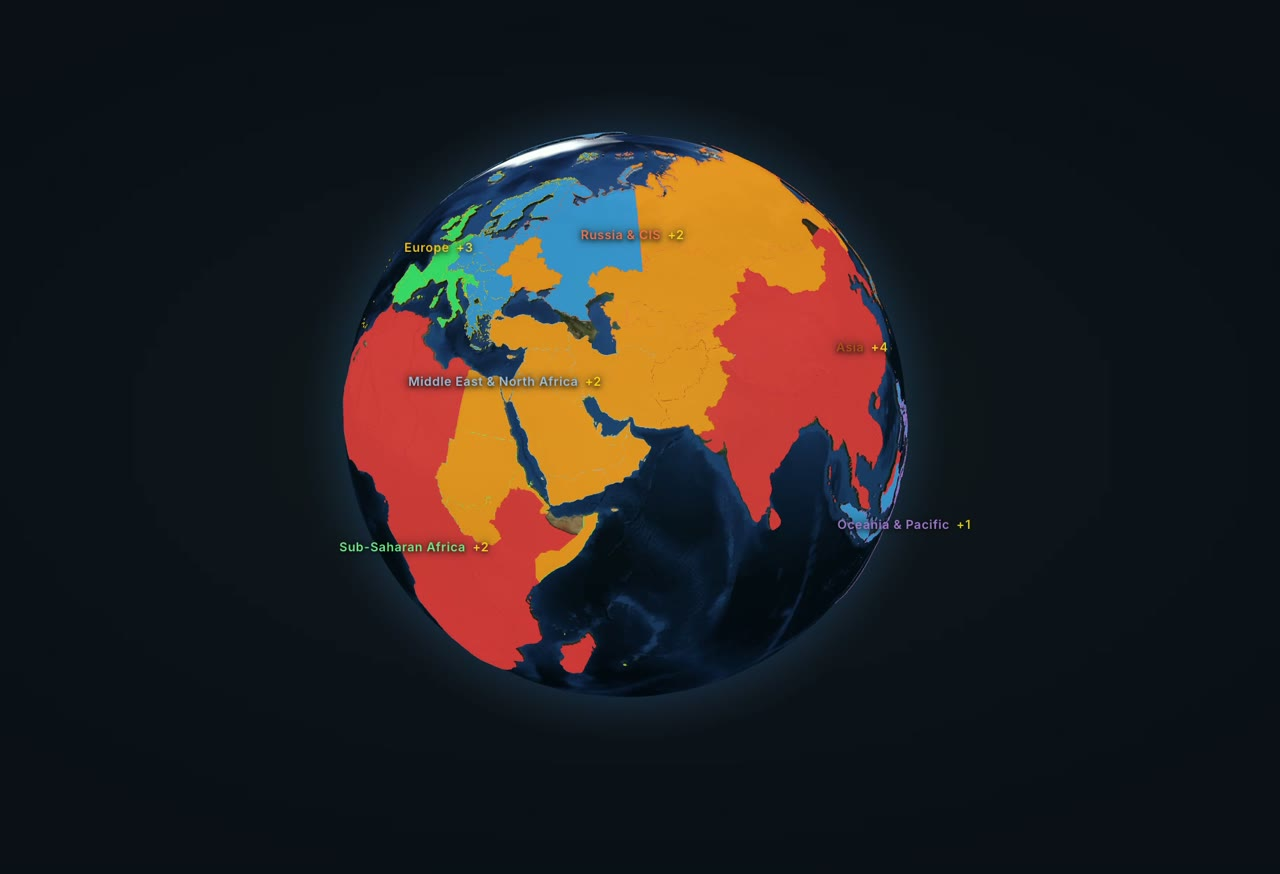
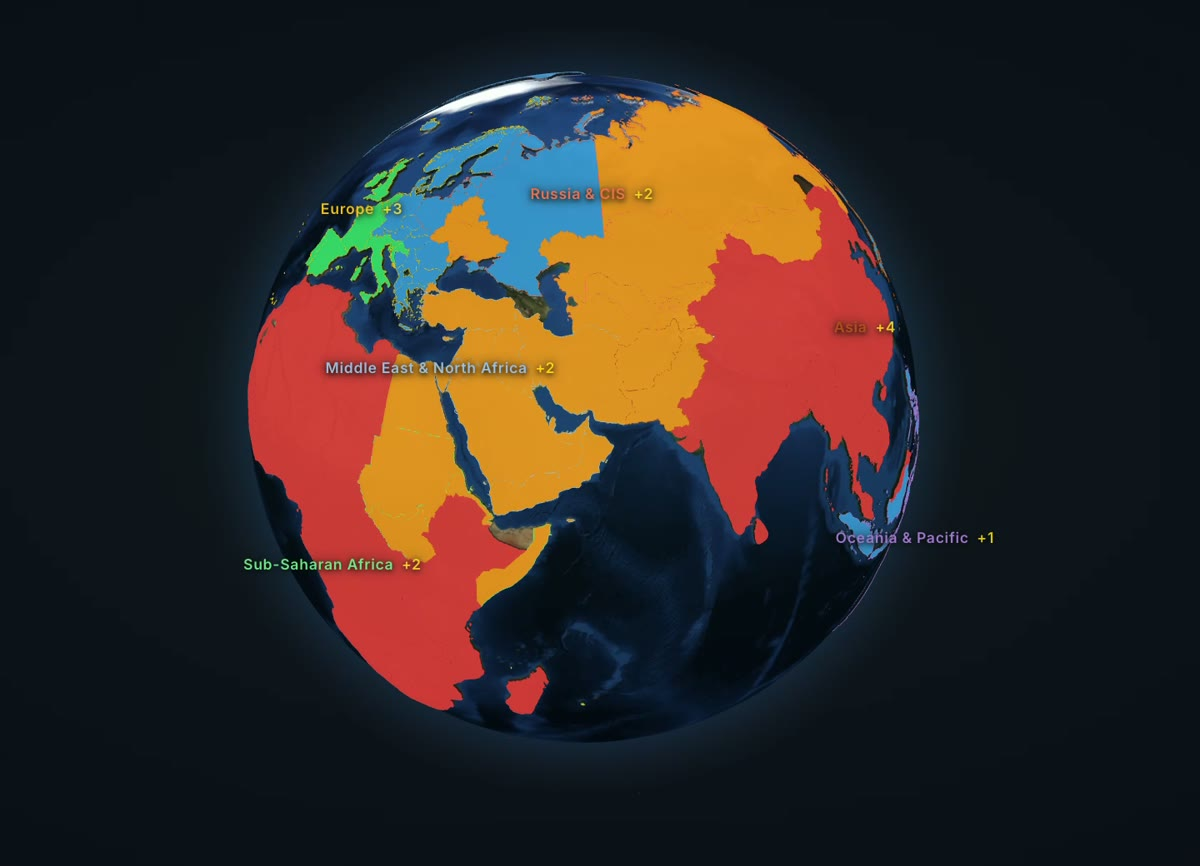
Landing: tighter crop on the gameplay globe so it fills the frame
Follow-up to the gameplay-loop showcase. Re-encoded the clip with a
centered crop (1826x1246 → crop 1440x1040 → 1200x866) so the globe is
larger in frame with less dead space, and updated the showcase aspect
ratio to match (no letterbox/shift). Still tiny: mp4 481K, poster 67K.
All region labels remain visible.

Changed region(s): [[0.185, 0.0624, 0.8325, 0.873], [0.6783, 0.7171, 0.7092, 0.7483]]

diff --git a/frontend/src/components/landing/GameplayShowcase.tsx b/frontend/src/components/landing/GameplayShowcase.tsx
@@ -22,7 +22,7 @@ export default function GameplayShowcase() {
     <figure
       className="relative mx-auto w-full max-w-3xl overflow-hidden rounded-2xl border border-bf-border shadow-2xl shadow-black/50"
       // Reserve the aspect ratio up front so the poster/video swap causes no layout shift.
-      style={{ aspectRatio: '1280 / 874' }}
+      style={{ aspectRatio: '1200 / 866' }}
     >
       {reduceMotion ? (
         <img